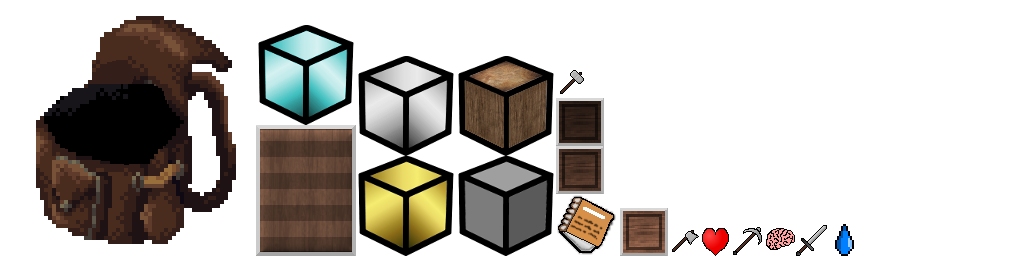
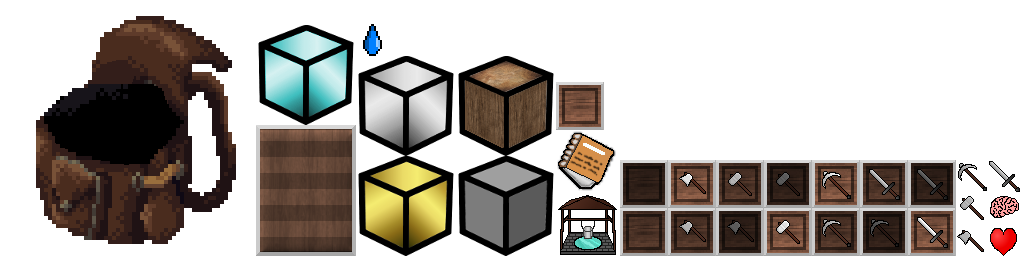
added weapons to the hotbar

Changed region(s): [[0.5312, 0.2812, 1.0, 1.0], [0.3438, 0.0938, 0.375, 0.2188]]

diff --git a/core/src/hud/game/HUD.java b/core/src/hud/game/HUD.java
@@ -54,6 +54,7 @@ public class HUD extends ApplicationAdapter implements InputProcessor {
     boolean isStaminaBuffer = false;
     BitmapFont font;
     String sItem[] = new String[5];
+    String sIcon[] = new String[4];
 
     @Override
     public void create() {
@@ -68,12 +69,17 @@ public class HUD extends ApplicationAdapter implements InputProcessor {
         nHealth = 200;
         nThirst = 100;
         nSanity = 100;
-        
+
         sItem[0] = "stone";
         sItem[1] = "wood";
         sItem[2] = "iron";
         sItem[3] = "gold";
         sItem[4] = "diamond";
+        
+        sIcon[0] = "invIconSword";
+        sIcon[1] = "invIconPick";
+        sIcon[2] = "invIconAxe";
+        sIcon[3] = "invIconHam";
 
         camera = new OrthographicCamera();
         camera.setToOrtho(false, nWScreen / 2, nHScreen / 2);
@@ -85,7 +91,6 @@ public class HUD extends ApplicationAdapter implements InputProcessor {
         platform = createBox(0, 0, 64, 32, true);
 
         stage = new Stage();
-        tbsHotbar = new TbsHotbar();
         nInvY = Gdx.graphics.getHeight() / 2 - 128;
         nInvX = Gdx.graphics.getWidth() - 64;
         nItemY = 198;
@@ -97,20 +102,21 @@ public class HUD extends ApplicationAdapter implements InputProcessor {
         nItemNum[4] = 1; //Diamond
 
         for (int i = 0; i < 4; i++) {
+            tbsHotbar = new TbsHotbar(sIcon[i]);
             tbHotbar[i] = new TbGUI("", tbsHotbar, 64, 64);
             tbHotbar[i].setY(nInvY);
             tbHotbar[i].setX(nInvX);
             nInvY += 64;
             stage.addActor(tbHotbar[i]);
         }
-        for(int i = 0; i < 5; i++) {
+        for (int i = 0; i < 5; i++) {
             tbsGUI = new TbsGUI(sItem[i]);
             tbItems[i] = new TbGUI(sItem[i] + " x " + nItemNum[i], tbsGUI, 32, 32);
             tbItems[i].setY(nItemY);
             tbItems[i].setX(nItemX);
-            nItemY-=64;
-            if(i == 3) {
-                nItemX+=90;
+            nItemY -= 64;
+            if (i == 3) {
+                nItemX += 90;
                 nItemY = 198;
             }
         }
@@ -133,15 +139,15 @@ public class HUD extends ApplicationAdapter implements InputProcessor {
         Gdx.gl.glClearColor(0, 0, 0, 1);
         Gdx.gl.glClear(GL20.GL_COLOR_BUFFER_BIT);
         statsBars();
-                if(!isInvChange) {
-            for(int i = 0; i < 5; i++) {
-                if(nItemNum[i] > 0) {
+        if (!isInvChange) {
+            for (int i = 0; i < 5; i++) {
+                if (nItemNum[i] > 0) {
                     stage.addActor(tbItems[i]);
                 }
             }
-        } else if(isInvChange) {
-            for(int i = 0; i < 5; i++) {
-                if(nItemNum[i] > 0) {
+        } else if (isInvChange) {
+            for (int i = 0; i < 5; i++) {
+                if (nItemNum[i] > 0) {
                     tbItems[i].remove();
                 }
             }
@@ -343,20 +349,20 @@ public class HUD extends ApplicationAdapter implements InputProcessor {
                 nAction = 4;
             }
         });
-            tbInv[0].addListener(new ChangeListener() {
-                public void changed(ChangeListener.ChangeEvent event, Actor actor) {
-                    tbInv[0].remove();
-                    stage.addActor(tbInv[1]);
-                    isInvChange = false;
-                }
-            });
-            tbInv[1].addListener(new ChangeListener() {
-                public void changed(ChangeListener.ChangeEvent event, Actor actor) {
-                    tbInv[1].remove();
-                    stage.addActor(tbInv[0]);
-                    isInvChange = true;
-                }
-            });
+        tbInv[0].addListener(new ChangeListener() {
+            public void changed(ChangeListener.ChangeEvent event, Actor actor) {
+                tbInv[0].remove();
+                stage.addActor(tbInv[1]);
+                isInvChange = false;
+            }
+        });
+        tbInv[1].addListener(new ChangeListener() {
+            public void changed(ChangeListener.ChangeEvent event, Actor actor) {
+                tbInv[1].remove();
+                stage.addActor(tbInv[0]);
+                isInvChange = true;
+            }
+        });
 
     }
 
@@ -388,15 +394,16 @@ public class HUD extends ApplicationAdapter implements InputProcessor {
         Skin skin = new Skin();
         TextureAtlas buttonAtlas;
 
-        public TbsHotbar() {
+        public TbsHotbar(String sIcon) {
             BitmapFont font = new BitmapFont();
             skin.add("default", font);
             buttonAtlas = new TextureAtlas(Gdx.files.internal("gameAssets.atlas"));
             skin.addRegions(buttonAtlas);
 
-            this.up = skin.getDrawable("inventoryIcon");
-            this.down = skin.getDrawable("inventoryIconPressed");
-            this.over = skin.getDrawable("inventoryIconHover");
+            this.up = skin.getDrawable(sIcon);
+            this.down = skin.getDrawable(sIcon + "Pressed");
+            this.over = skin.getDrawable(sIcon + "Hover");
+            this.checked = skin.getDrawable("inventoryIcon");
             this.font = skin.getFont("default");
         }
     }
